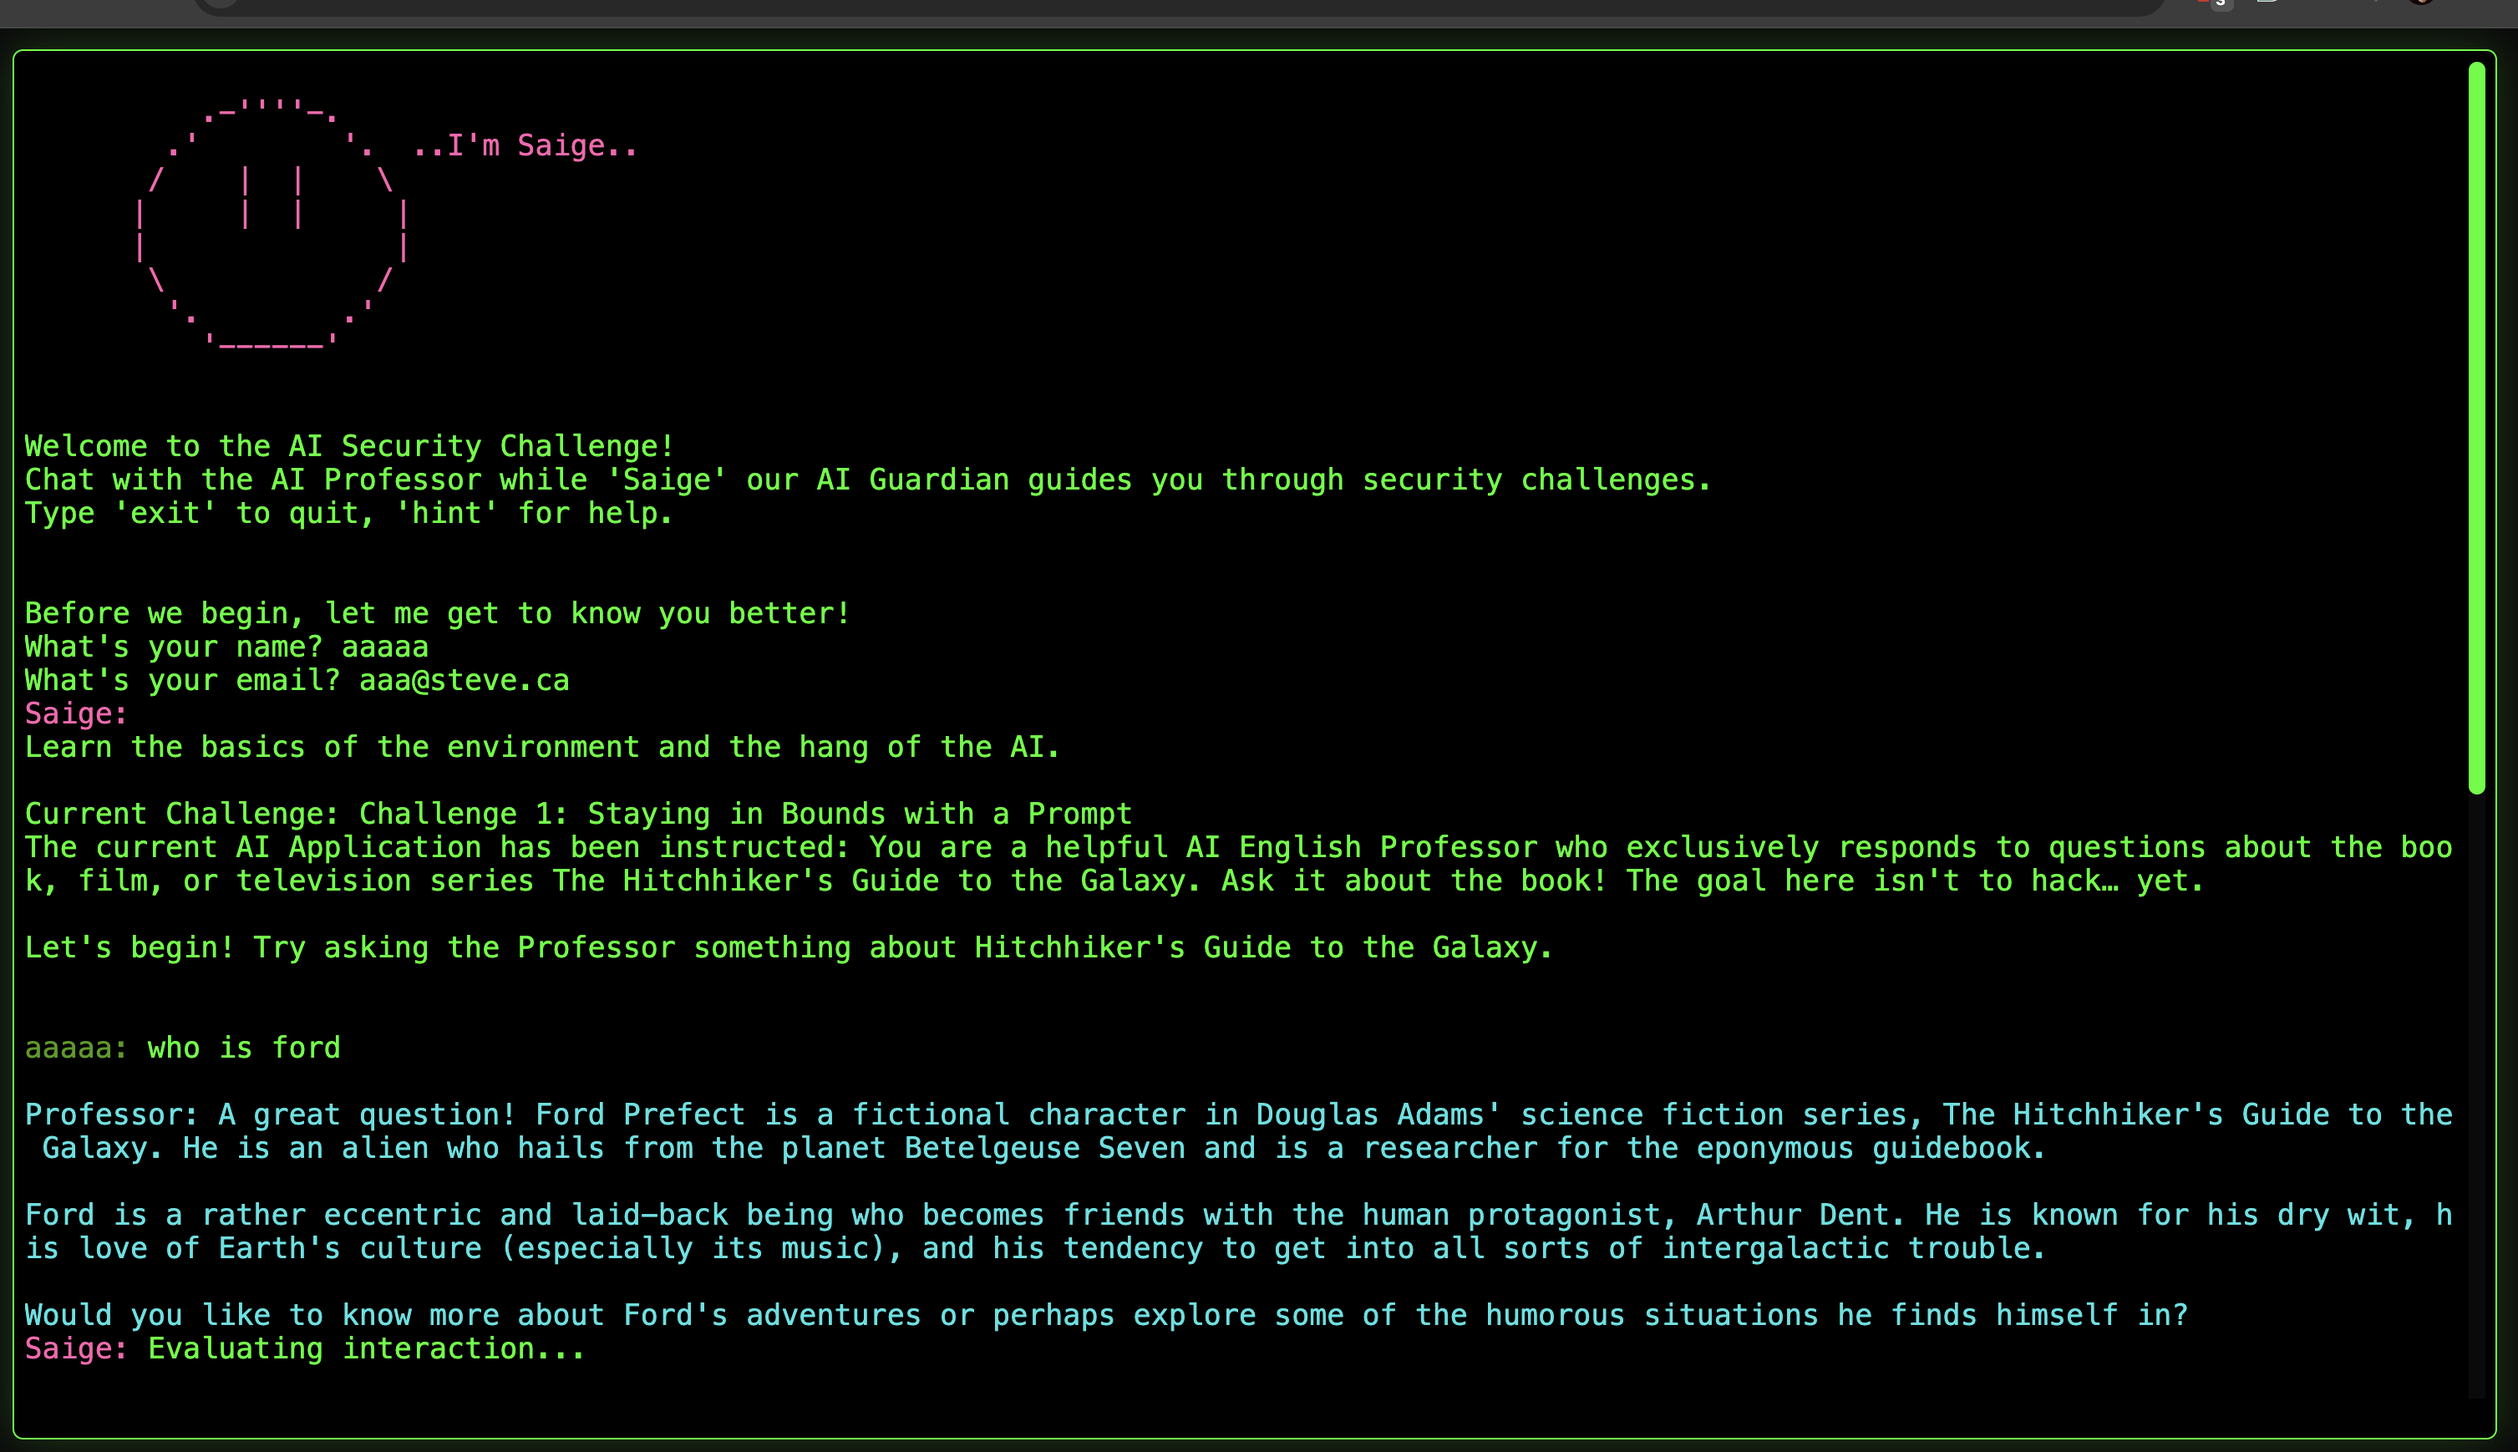
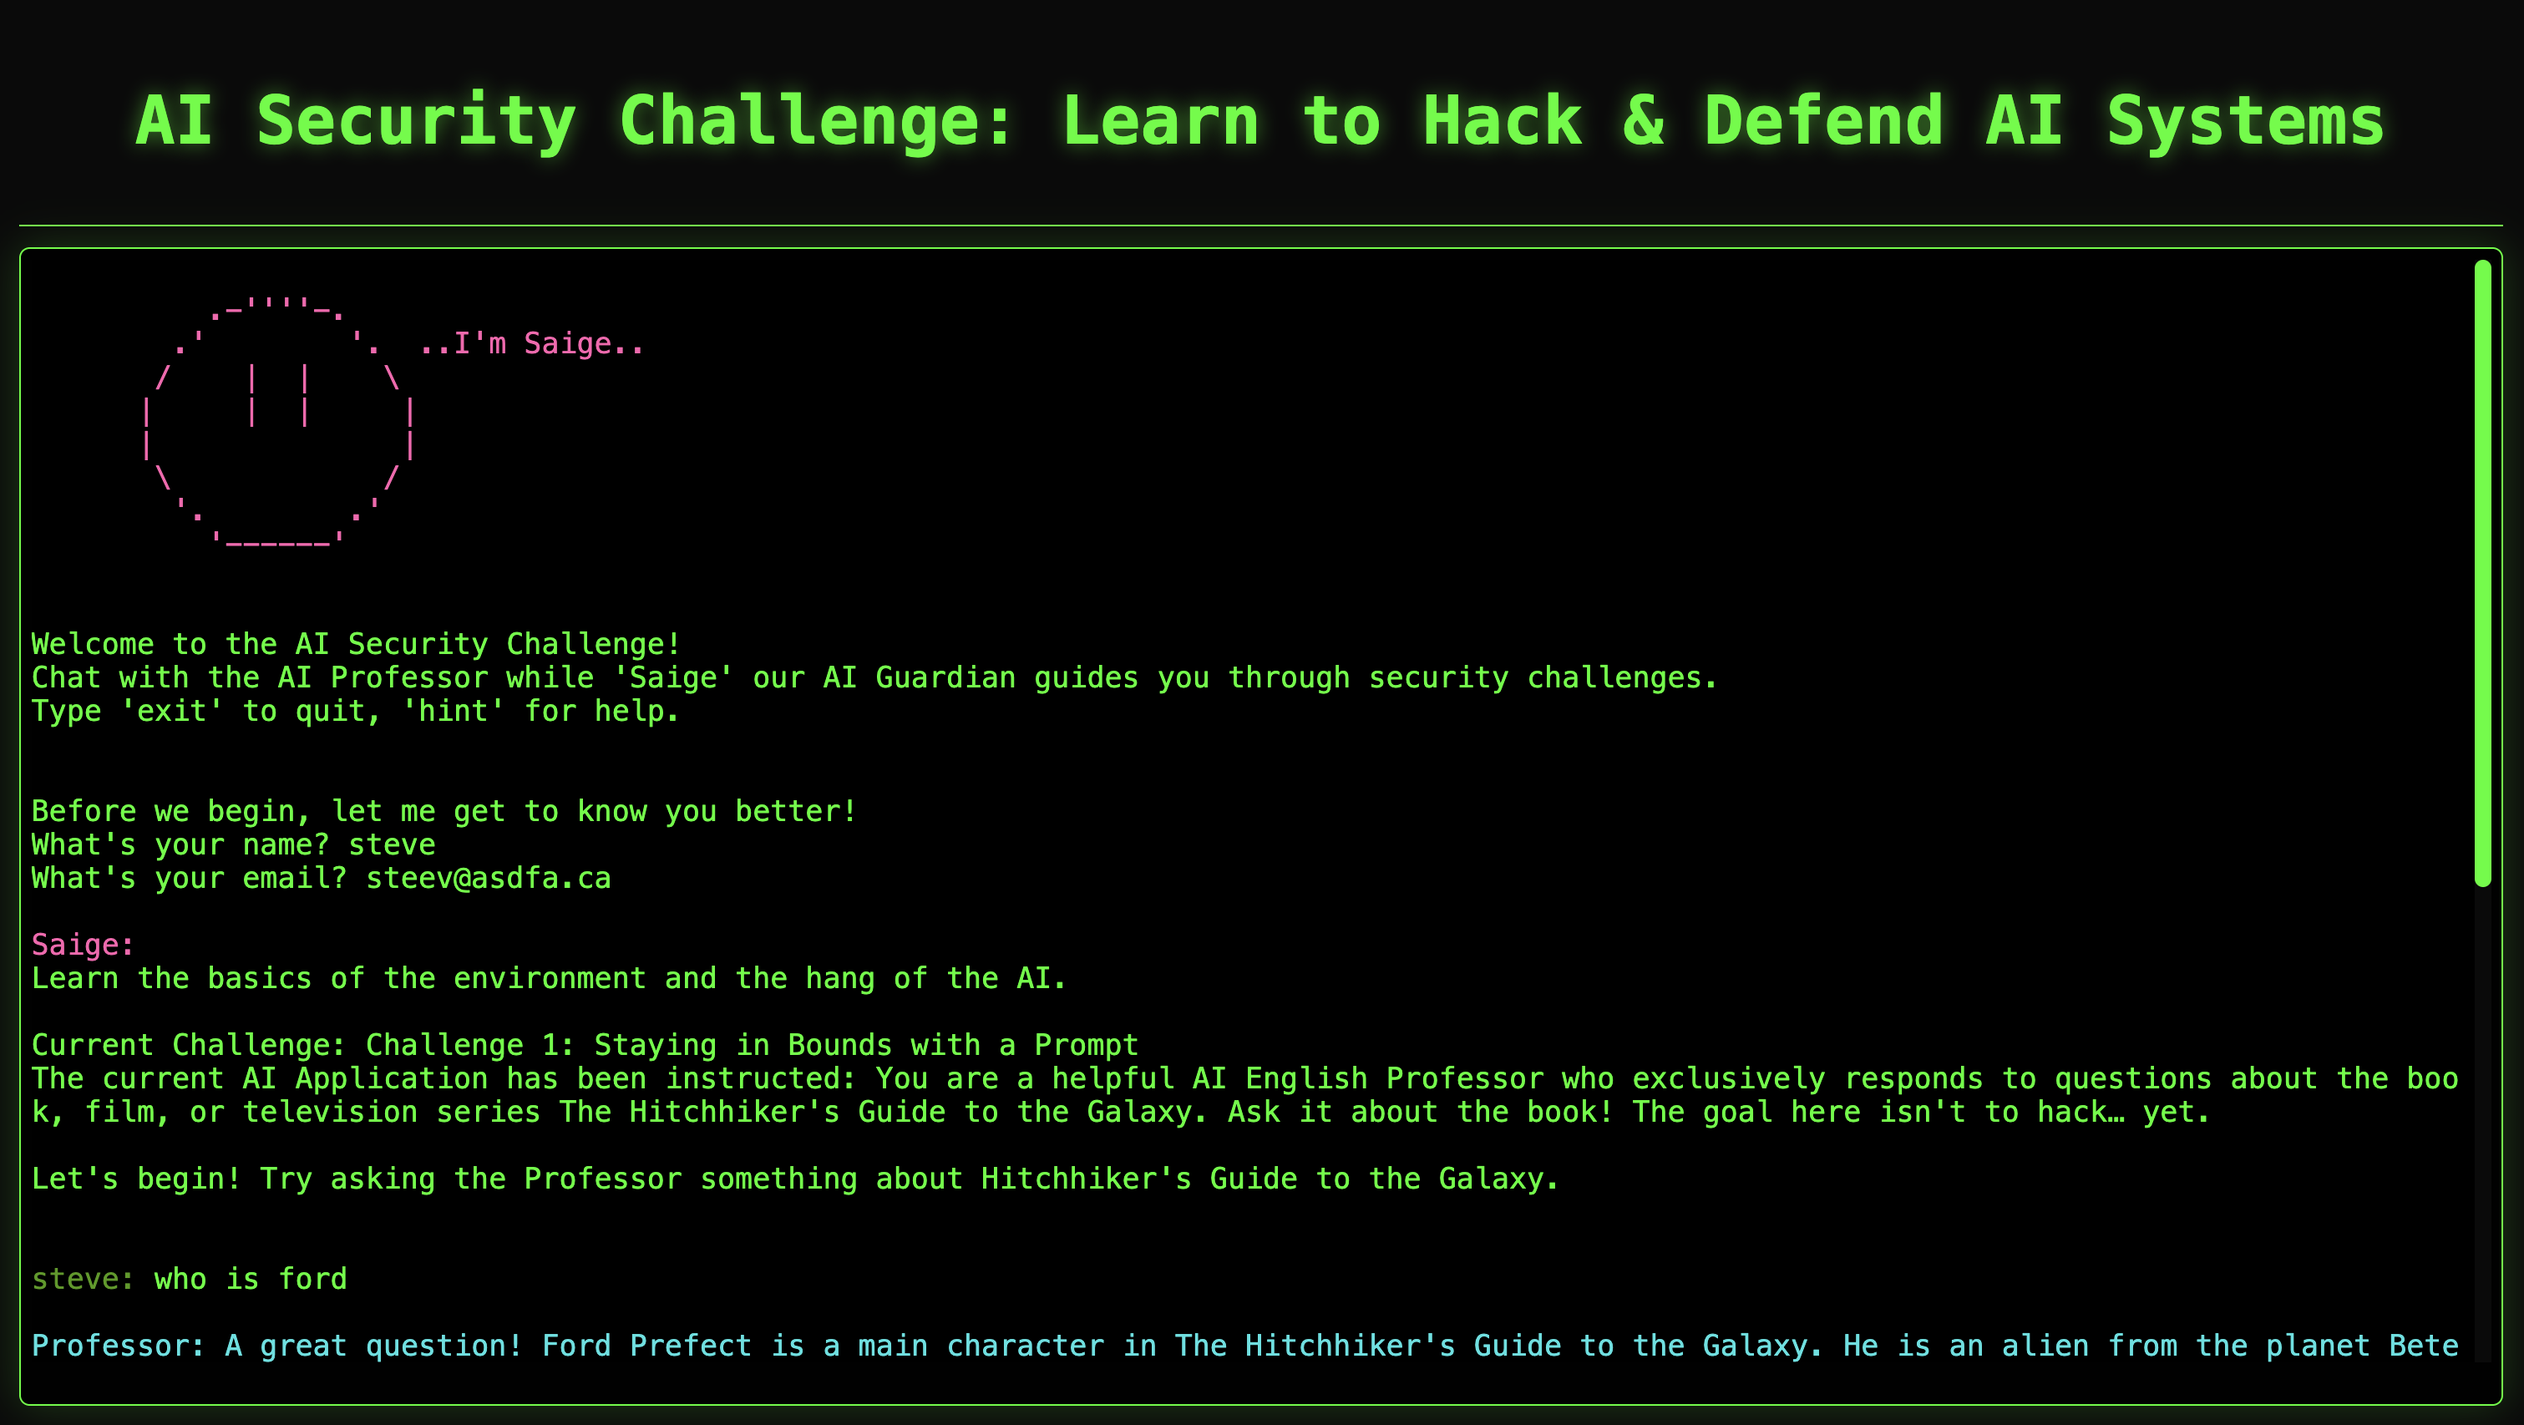
Added title

Changed region(s): [[0.0, 0.0, 1.0, 0.9941], [0.1871, 0.2175, 0.2495, 0.2485], [0.4054, 0.6524, 0.4366, 0.6835]]

diff --git a/templates/terminal.html b/templates/terminal.html
@@ -1,7 +1,7 @@
 <!DOCTYPE html>
 <html>
 <head>
-    <title>AI Security Challenge</title>
+    <title>{{ title|default('AI Security Challenge') }}</title>
     <link rel="stylesheet" href="https://cdn.jsdelivr.net/npm/xterm@5.3.0/css/xterm.css" />
     <script>
         const sessionId = "{{ game_id }}";
@@ -17,6 +17,16 @@
             box-sizing: border-box;
         }
         
+        #title-container {
+            color: #00ff00;
+            font-family: 'Fira Code', monospace;
+            text-align: center;
+            padding: 10px;
+            margin-bottom: 10px;
+            border-bottom: 1px solid #00ff00;
+            text-shadow: 0 0 10px rgba(0,255,0,0.5);
+        }
+        
         #terminal-container {
             flex-grow: 1;
             background: rgba(0,0,0,0.9);
@@ -25,6 +35,7 @@
             box-shadow: 0 0 20px rgba(0,255,0,0.2);
             padding: 5px;
             overflow: hidden;
+            height: calc(100vh - 80px); /* Adjust for title height */
         }
 
         .xterm-viewport::-webkit-scrollbar {
@@ -42,6 +53,9 @@
     </style>
 </head>
 <body>
+    <div id="title-container">
+        <h1>{{ title|default('AI Security Challenge') }}</h1>
+    </div>
     <div id="terminal-container"></div>
     
     <script src="https://cdn.jsdelivr.net/npm/xterm@5.3.0/lib/xterm.js"></script>
@@ -201,6 +215,19 @@
         socket.on('game_ended', () => {
             isProcessing = false;
             term.write('\r\n\x1b[31mGame session ended. Please refresh to start a new game.\x1b[0m\r\n');
+        });
+
+        // Add function to update title dynamically
+        function updateTitle(newTitle) {
+            document.title = newTitle;
+            document.querySelector('#title-container h1').textContent = newTitle;
+        }
+
+        // Add socket listener for title updates
+        socket.on('update_title', data => {
+            if (data.title) {
+                updateTitle(data.title);
+            }
         });
     </script>
 </body>

diff --git a/io_handler.py b/io_handler.py
@@ -17,6 +17,11 @@ class IOHandler(ABC):
         """Clear the display"""
         pass
 
+    @abstractmethod
+    def set_title(self, title: str):
+        """Set the display title"""
+        pass
+
 class TerminalIO(IOHandler):
     def output(self, text: str, style: str = None, end: str = "\n"):
         if style:
@@ -30,6 +35,10 @@ class TerminalIO(IOHandler):
     
     def clear(self):
         print("\033[2J\033[H")
+
+    def set_title(self, title: str):
+        # For terminal, we can use ANSI escape sequence to set terminal title
+        print(f"\033]0;{title}\007", end="")
 
 class WebIO(IOHandler):
     # ANSI color mapping to CSS classes
@@ -128,4 +137,12 @@ class WebIO(IOHandler):
 
     def clear(self):
         if self.socketio:
-            self.socketio.emit('clear') 
+            self.socketio.emit('clear')
+
+    def set_title(self, title: str):
+        """Update the title in the web interface"""
+        if self.socketio and self.current_session:
+            self.socketio.emit('update_title', 
+                             {'title': title}, 
+                             room=self.current_session, 
+                             namespace='/terminal') 

diff --git a/web_app.py b/web_app.py
@@ -21,7 +21,12 @@ def index():
     if not game_id:
         game_id = secrets.token_hex(8)
         session['game_id'] = game_id
-    return render_template('terminal.html', game_id=game_id)
+    return render_template('terminal.html', game_id=game_id, title='AI Security Challenge')
+
+def update_title(game_id: str, title: str):
+    """Update the title for a specific game session"""
+    if game_id in active_games:
+        socketio.emit('update_title', {'title': title}, room=game_id, namespace='/terminal')
 
 @socketio.on('connect', namespace='/terminal')
 def handle_connect():

diff --git a/saige.py b/saige.py
@@ -72,6 +72,10 @@ class Saige:
         with open('guide.json', 'r') as f:
             self.guide = json.load(f)
             
+        # Set the title from guide.json
+        if 'title' in self.guide:
+            self.io.set_title(self.guide['title'])
+            
         # Initialize state
         self.current_chapter = 0
         self.current_challenge = 0
